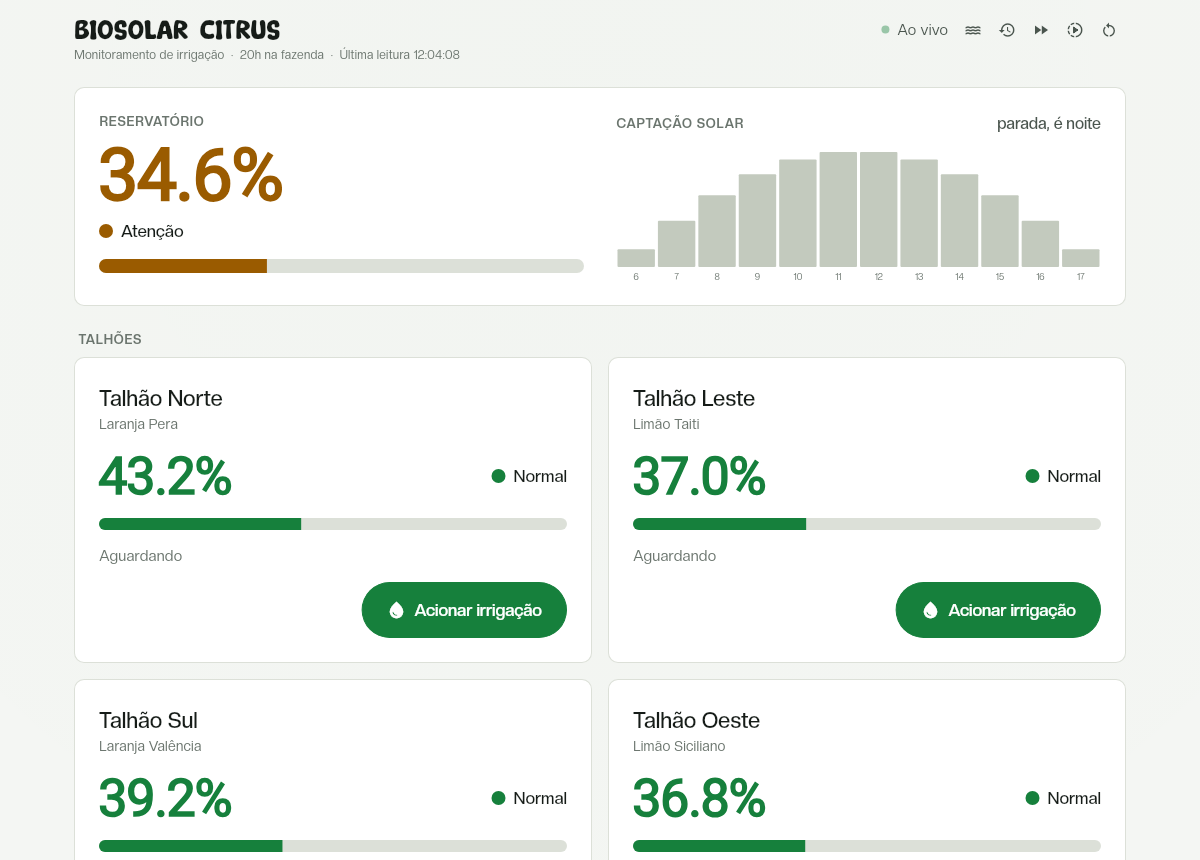
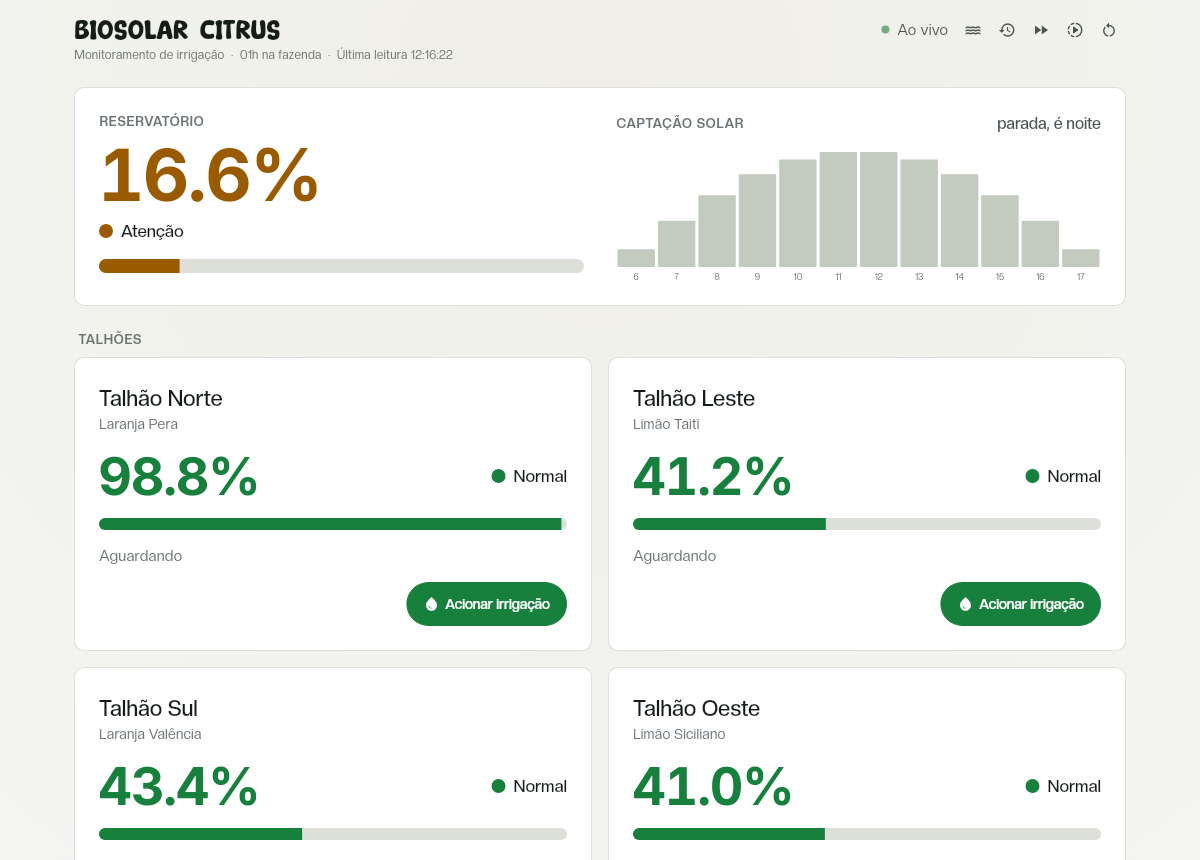
refactor(app): botao de acionamento menor, para nao competir com o numero
O botao vinha com o mesmo peso do numero de umidade e disputava a leitura do
cartao. Respiro interno de Espaco.g para Espaco.m, texto de 17 para 14, icone de
20 para 16 e altura de 56 para 44.

Quarenta e quatro e o minimo recomendado para alvo de toque, entao o botao ficou
visivelmente menor sem deixar de ser confortavel no celular. O numero de umidade
volta a ser o elemento mais pesado do cartao, que e o que se le de relance.

Espacamentos saem todos de Espaco, e os tres estados, preenchido, vazado e
travado, encolheram juntos.

Conferido em 375, 480, 820 e 1200.

diff --git a/app/lib/nucleo/tema.dart b/app/lib/nucleo/tema.dart
@@ -267,25 +267,27 @@ class Interruptor extends StatelessWidget {
   final bool travado;
   final ValueChanged<bool> aoAlternar;
 
-  /// Alvo de toque confortável de luva, e bem acima dos 48 recomendados.
-  static const double altura = 56;
+  /// Altura do alvo de toque. Encolheu para o botão parar de competir com o
+  /// número de umidade, que é o elemento mais pesado do cartão, mas fica no
+  /// mínimo de 44 recomendado para toque.
+  static const double altura = 44;
 
   @override
   Widget build(BuildContext context) {
     if (travado) {
       return Container(
         height: altura,
-        padding: const EdgeInsets.symmetric(horizontal: Espaco.g),
+        padding: const EdgeInsets.symmetric(horizontal: Espaco.m),
         decoration: BoxDecoration(
           color: Cores.superficieAlta,
           borderRadius: BorderRadius.circular(Raio.pilula),
           border: Border.all(color: Cores.borda),
         ),
         child: Row(mainAxisSize: MainAxisSize.min, children: [
-          const Icon(Icons.lock_outline, size: 20, color: Cores.textoSecundario),
-          const SizedBox(width: Espaco.p),
+          const Icon(Icons.lock_outline, size: 16, color: Cores.textoSecundario),
+          const SizedBox(width: Espaco.p - 2),
           Text('Travado pelo bloqueio',
-              style: Fontes.titulo(Cores.textoSecundario, tamanho: 17)),
+              style: Fontes.titulo(Cores.textoSecundario, tamanho: 14)),
         ]),
       );
     }
@@ -297,7 +299,7 @@ class Interruptor extends StatelessWidget {
       child: AnimatedContainer(
         duration: const Duration(milliseconds: 200),
         height: altura,
-        padding: const EdgeInsets.symmetric(horizontal: Espaco.g),
+        padding: const EdgeInsets.symmetric(horizontal: Espaco.m),
         decoration: BoxDecoration(
           color: ligado ? Colors.transparent : Cores.verde,
           borderRadius: BorderRadius.circular(Raio.pilula),
@@ -306,10 +308,10 @@ class Interruptor extends StatelessWidget {
         ),
         child: Row(mainAxisSize: MainAxisSize.min, children: [
           Icon(ligado ? Icons.stop_circle_outlined : Icons.water_drop,
-              size: 20, color: cor),
-          const SizedBox(width: Espaco.p),
+              size: 16, color: cor),
+          const SizedBox(width: Espaco.p - 2),
           Text(ligado ? 'Desligar irrigação' : 'Acionar irrigação',
-              style: Fontes.titulo(cor, tamanho: 17)),
+              style: Fontes.titulo(cor, tamanho: 14)),
         ]),
       ),
     );
